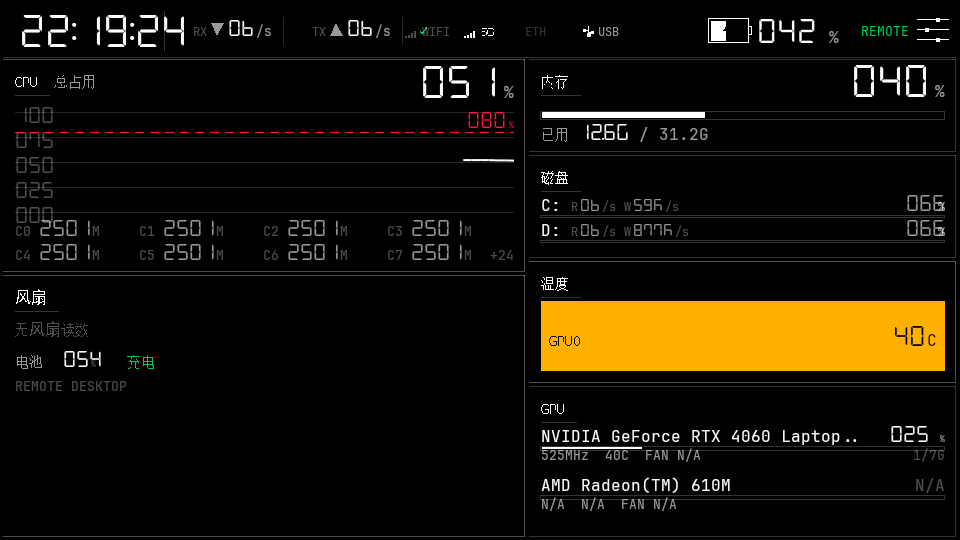
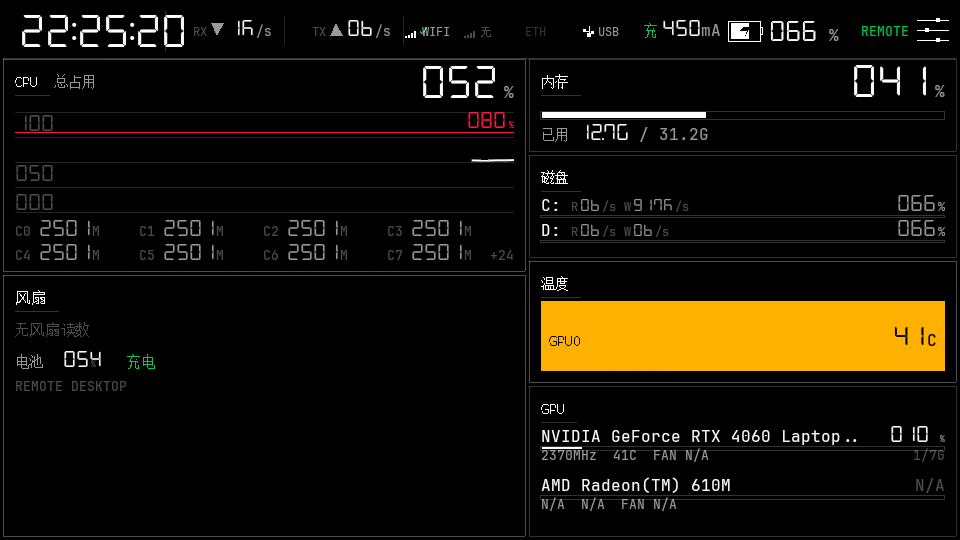
Styled exit confirmation, Android 5 verified, compact 960 top bar

diff --git a/app/src/main/java/com/example/panel/dash/SettingsOverlayView.java b/app/src/main/java/com/example/panel/dash/SettingsOverlayView.java
@@ -21,6 +21,8 @@ public final class SettingsOverlayView extends View {
         void onDiscoverRequested();
 
         void onEditHostRequested();
+
+        void onExitRequested();
     }
 
     private static final int ROW_REMOTE = 0;
@@ -50,6 +52,10 @@ public final class SettingsOverlayView extends View {
     private final Rect[] plusRects = new Rect[ROWS];
     private final Rect backRect = new Rect();
     private final Rect hostEditRect = new Rect();
+    private final Rect exitDialogRect = new Rect();
+    private final Rect exitCancelRect = new Rect();
+    private final Rect exitOkRect = new Rect();
+    private boolean confirmExit;
 
     private int rowH;
     private int labelSize;
@@ -157,6 +163,60 @@ public final class SettingsOverlayView extends View {
         canvas.drawRect(backRect, p);
         drawCjk(canvas, "返回", backRect.left + ui / 2,
                 backRect.centerY() + labelSize / 3, labelSize, DashUi.WHITE);
+        if (confirmExit) {
+            drawExitConfirm(canvas, w, h);
+        }
+    }
+
+    private void drawExitConfirm(Canvas canvas, int w, int h) {
+        p.setStyle(Paint.Style.FILL);
+        p.setColor(0xB0000000);
+        canvas.drawRect(0, 0, w, h, p);
+
+        int dw = Math.min(w * 3 / 5, ui * 40);
+        int dh = Math.min(h / 3, ui * 12);
+        int left = (w - dw) / 2;
+        int top = (h - dh) / 2;
+        exitDialogRect.set(left, top, left + dw, top + dh);
+
+        p.setColor(DashUi.BLACK);
+        canvas.drawRect(exitDialogRect, p);
+        p.setStyle(Paint.Style.STROKE);
+        p.setStrokeWidth(1);
+        p.setColor(DashUi.WHITE_60);
+        canvas.drawRect(exitDialogRect, p);
+
+        drawCjk(canvas, "退出 PANELINK", left + ui, top + ui * 2, labelSize, DashUi.WHITE);
+        drawCjk(canvas, "确定退出系统面板？", left + ui, top + ui * 4, ui, DashUi.WHITE_60);
+
+        int btnH = ui * 2 + ui / 2;
+        int btnW = (dw - ui * 3) / 2;
+        int by = top + dh - btnH - ui / 2;
+        exitCancelRect.set(left + ui, by, left + ui + btnW, by + btnH);
+        exitOkRect.set(left + dw - ui - btnW, by, left + dw - ui, by + btnH);
+        drawDialogButton(canvas, exitCancelRect, "取消", DashUi.WHITE_30);
+        drawDialogButton(canvas, exitOkRect, "退出", DashUi.WHITE);
+    }
+
+    private void drawDialogButton(Canvas canvas, Rect rect, String text, int border) {
+        p.setStyle(Paint.Style.STROKE);
+        p.setStrokeWidth(1);
+        p.setColor(border);
+        canvas.drawRect(rect, p);
+        cjk.setTextSize(labelSize);
+        cjk.setColor(DashUi.WHITE);
+        cjk.setTextAlign(Paint.Align.CENTER);
+        canvas.drawText(text, rect.centerX(), rect.centerY() + labelSize / 3, cjk);
+        cjk.setTextAlign(Paint.Align.LEFT);
+    }
+
+    public void cancelExitConfirm() {
+        confirmExit = false;
+        invalidate();
+    }
+
+    public boolean isExitConfirmVisible() {
+        return confirmExit;
     }
 
     private void layoutRow(int index, int left, int right, int y) {
@@ -240,7 +300,7 @@ public final class SettingsOverlayView extends View {
                 break;
             case ROW_CLOSE:
             default:
-                label = "关闭";
+                label = "退出";
                 value = "";
                 break;
         }
@@ -274,7 +334,7 @@ public final class SettingsOverlayView extends View {
             int bx = rowRects[index].right - bw;
             int by = rowRects[index].top + (rowH - (rowH - ui)) / 2;
             canvas.drawRect(bx, by, bx + bw, by + rowH - ui, p);
-            drawCjk(canvas, index == ROW_RESET ? "重置" : "关闭", bx + ui / 2,
+            drawCjk(canvas, index == ROW_RESET ? "重置" : "退出", bx + ui / 2,
                     baseline, labelSize, DashUi.WHITE);
         }
     }
@@ -307,6 +367,16 @@ public final class SettingsOverlayView extends View {
         }
         int x = (int) event.getX();
         int y = (int) event.getY();
+        if (confirmExit) {
+            if (exitOkRect.contains(x, y)) {
+                confirmExit = false;
+                listener.onExitRequested();
+            } else if (exitCancelRect.contains(x, y) || !exitDialogRect.contains(x, y)) {
+                confirmExit = false;
+            }
+            invalidate();
+            return true;
+        }
         if (hostEditRect.contains(x, y)) {
             if (listener != null) {
                 listener.onEditHostRequested();
@@ -345,9 +415,7 @@ public final class SettingsOverlayView extends View {
                     changed();
                     break;
                 case ROW_CLOSE:
-                    if (listener != null) {
-                        listener.onClosed();
-                    }
+                    confirmExit = true;
                     break;
                 default:
                     if (minusRects[i].contains(x, y)) {

diff --git a/app/src/main/java/com/example/panel/dash/TopBarView.java b/app/src/main/java/com/example/panel/dash/TopBarView.java
@@ -190,14 +190,15 @@ public final class TopBarView extends View {
                         : data.root ? DashUi.WHITE_60 : DashUi.AMBER);
 
         int battRight = rootRight - ui * 5;
-        int pctSize = ui + ui / 2;
+        boolean compact = w < 1200;
+        int pctSize = compact ? ui + ui / 4 : ui + ui / 2;
         int pctBase = h / 2 + pctSize / 2;
         String pctText = String.format(Locale.US, "%03d", Math.max(0, data.batteryPct));
         dseg.setTextSize(pctSize);
         int pctWidth = (int) dseg.measureText(pctText);
         mono.setTextSize(ui);
         int unitWidth = (int) mono.measureText("%");
-        int batW = ui * 5 / 2;
+        int batW = compact ? ui * 2 : ui * 5 / 2;
         int batH = pctSize;
         int pctRight = battRight - unitWidth - 2;
         int batX = pctRight - pctWidth - ui / 2 - batW;
@@ -208,20 +209,28 @@ public final class TopBarView extends View {
         drawDseg(canvas, pctText, pctRight - pctWidth, pctBase, pctSize, pctColor);
         drawMono(canvas, "%", battRight, pctBase, ui, DashUi.WHITE_60);
 
-        int currentRight = batX - ui;
+        int currentRight = batX - ui / 2;
         if (data.batteryCurrentValid) {
-            String state = data.batteryStatus == android.os.BatteryManager.BATTERY_STATUS_FULL
-                    ? "已满" : data.charging ? "充电" : "放电";
+            String state = compact
+                    ? (data.charging ? "充" : "放")
+                    : (data.batteryStatus == android.os.BatteryManager.BATTERY_STATUS_FULL
+                    ? "已满" : data.charging ? "充电" : "放电");
             String current = String.valueOf(data.batteryCurrentMa);
+            int stateSize = compact ? ui : ui;
+            cjk.setTextSize(stateSize);
             int stateW = (int) cjk.measureText(state);
-            int currentW = (int) dseg.measureText(current) + (int) mono.measureText("mA");
-            int total = stateW + ui / 2 + currentW;
+            dseg.setTextSize(ui);
+            int currentW = (int) dseg.measureText(current);
+            mono.setTextSize(ui);
+            int unitW = (int) mono.measureText("mA");
+            int gap = compact ? ui / 4 : ui / 2;
+            int total = stateW + gap + currentW + unitW;
             int start = currentRight - total;
-            drawCjk(canvas, state, start, smallBase, ui,
+            drawCjk(canvas, state, start, smallBase, stateSize,
                     data.charging ? DashUi.GREEN : DashUi.WHITE_60);
-            drawDseg(canvas, current, start + stateW + ui / 2, smallBase, ui, DashUi.WHITE);
-            drawMono(canvas, "mA", start + stateW + ui / 2 + (int) dseg.measureText(current),
-                    smallBase, ui, DashUi.WHITE_60);
+            drawDseg(canvas, current, start + stateW + gap, smallBase, ui, DashUi.WHITE);
+            drawMono(canvas, "mA", start + stateW + gap + currentW, smallBase, ui,
+                    DashUi.WHITE_60);
         }
     }
 

diff --git a/app/src/main/java/com/example/panel/dash/DashActivity.java b/app/src/main/java/com/example/panel/dash/DashActivity.java
@@ -330,6 +330,10 @@ public final class DashActivity extends AppCompatActivity implements SettingsOve
         }
         if (keyCode == KeyEvent.KEYCODE_BACK
                 && settingsOverlay.getVisibility() == View.VISIBLE) {
+            if (settingsOverlay.isExitConfirmVisible()) {
+                settingsOverlay.cancelExitConfirm();
+                return true;
+            }
             settingsOverlay.setVisibility(View.GONE);
             return true;
         }
@@ -369,7 +373,13 @@ public final class DashActivity extends AppCompatActivity implements SettingsOve
 
     @Override
     public void onClosed() {
+        settingsOverlay.cancelExitConfirm();
         settingsOverlay.setVisibility(View.GONE);
+    }
+
+    @Override
+    public void onExitRequested() {
+        finishAffinity();
     }
 
     @Override

diff --git a/app/src/main/java/com/example/panel/dash/CpuPanelView.java b/app/src/main/java/com/example/panel/dash/CpuPanelView.java
@@ -97,11 +97,16 @@ public final class CpuPanelView extends PanelView {
             return;
         }
 
+        boolean compactLabels = chartBottom - chartTop < ui * 7;
         for (int i = 0; i <= 4; i++) {
             int y = chartBottom - (chartBottom - chartTop) * i / 4;
             canvas.drawLine(left, y, chartRight, y, grid);
+            if (compactLabels && i % 2 != 0) {
+                continue;
+            }
+            int labelBaseline = i == 0 ? y - 2 : y + ui + dp(2);
             drawDseg(canvas, String.format(Locale.US, "%03d", i * 25), left,
-                    y + ui / 2 + dp(2), ui, DashUi.WHITE_30);
+                    labelBaseline, ui, DashUi.WHITE_30);
         }
 
         float thresholdY = chartBottom - (chartBottom - chartTop) * (THRESHOLD / 100f);

diff --git a/app/src/main/java/com/example/panel/dash/DiskPanelView.java b/app/src/main/java/com/example/panel/dash/DiskPanelView.java
@@ -82,7 +82,9 @@ public final class DiskPanelView extends PanelView {
             int baseline = y + ui;
             long pct = disk.totalBytes > 0 ? disk.usedBytes * 100 / disk.totalBytes : 0;
             drawMono(canvas, disk.name, left, baseline, ui, DashUi.WHITE);
-            drawDsegRight(canvas, DashUi.percent(pct), right, baseline, ui,
+            mono.setTextSize(infoSize);
+            int unitW = (int) mono.measureText("%");
+            drawDsegRight(canvas, DashUi.percent(pct), right - unitW - 2, baseline, ui,
                     pct >= 95 ? DashUi.RED : pct >= 85 ? DashUi.AMBER : DashUi.WHITE_60);
             drawMonoRight(canvas, "%", right, baseline, infoSize, DashUi.WHITE_60);
 

diff --git a/README.md b/README.md
@@ -31,7 +31,8 @@ gradlew.bat :app:assembleDebug
 ```
 
 The launcher is `com.example.panel.dash.DashActivity`; the UI specimen/demo remains in the
-source tree but is not the launcher.
+source tree but is not the launcher. The panel is installed and verified on Android 5.1.1
+(960x540, rooted) and Android 13 (2480x1116, unrooted).
 
 ## Screenshots
 
